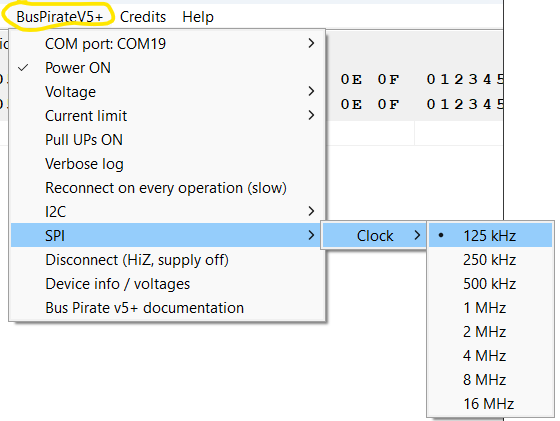
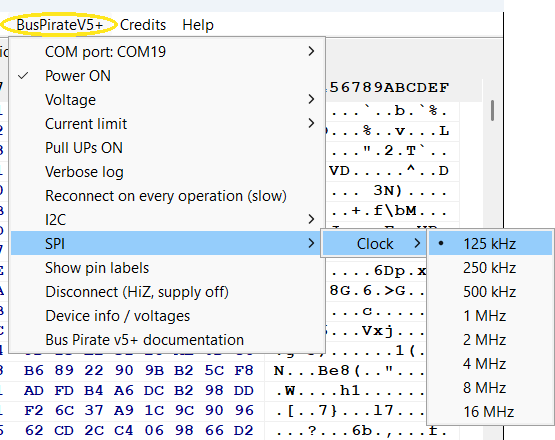
asprogrammer: update for v7
New BusPirateV5+ menu screenshots, with Show pin labels and 1.2 V. Document Show pin labels and when the Program IC command stops.

diff --git a/content/docs/software/asprogrammer-dregmod.md b/content/docs/software/asprogrammer-dregmod.md
@@ -60,7 +60,7 @@ In the Bus Pirate terminal use the ```binmode``` command and choose **BPIO2 flat
 
    ![](/images/docs/fw/asprogrammer-bpio2-com-port.png)
 
-3. In the same menu, set **Voltage** to the voltage of your chip: 1.8, 2.5, 3.3 or 5.0 volts.
+3. In the same menu, set **Voltage** to the voltage of your chip.
 
    ![](/images/docs/fw/asprogrammer-voltage-menu.png)
 
@@ -80,7 +80,9 @@ In the Bus Pirate terminal use the ```binmode``` command and choose **BPIO2 flat
 
    ![](/images/docs/fw/asprogrammer-i2c-clock-menu.png)
 
-Two more commands in the same menu:
+Three more commands in the same menu:
+
+- **Show pin labels** labels the pins of the bus you picked, SPI or I2C, on the Bus Pirate's screen, so you can see where each wire goes. It turns off the power supply and the pull-up resistors while you wire, and the next operation sets them again as the menu says.
 
 - **Device info / voltages** shows the Bus Pirate model, its firmware, and the power supply settings and measurements. It doesn't turn the power supply on, so it's a safe first check.
 
@@ -114,7 +116,7 @@ The toolbar buttons have no labels: hold the pointer over one to see its name.
 
 Buttons 4, 6 and 8 have a small arrow on their right. Click the arrow, not the button, for more commands:
 
-- **Program IC**: its menu has one command. It asks once, then runs **Unprotect**, **Erase IC**, **Program IC** and **Verify IC** in a row.
+- **Program IC**: its menu has one command. It asks once, then runs **Unprotect**, **Erase IC**, **Program IC** and **Verify IC** in a row. It stops if you click **Cancel** or the erase ends with an error. If an I2C EEPROM refuses only some pages, it goes on and programs the pages the chip takes.
 
   ![](/images/docs/fw/asprogrammer-program-ic-menu.png)
 
